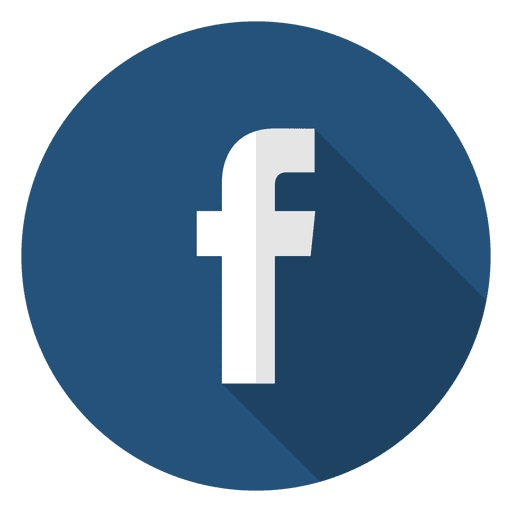
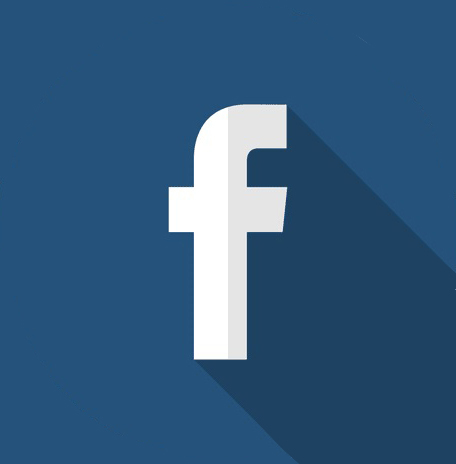
cambios en imagenes

diff --git a/trabajo integrador/public/stylesheets/estilosHeader.css b/trabajo integrador/public/stylesheets/estilosHeader.css
@@ -9,7 +9,7 @@ header{
    }
 header .header1{ 
     width: 100%;
-    background-image:url("/images/fotosVisteteDePoder/encabezadoGris.jpg");
+    background-image:url("/images/fotosVisteteDePoder/papelHeaderAlta.jpg");
 }
 
 
@@ -18,10 +18,10 @@ header .header1 .envios{
     box-sizing: border-box;
     position: absolute;
     width: 20%;
-    margin: 0;
-    margin-left: 5%; 
+    margin: 1%;
+    margin-left: 4%; 
     margin-right: 70%; 
-    color: #dfdfe6; 
+    color: #efeff8; 
 }
 header .header1 .redes{
     display:inline-block;
@@ -36,12 +36,13 @@ header .header1 .redes{
 header .header1 .redes .f{
     display:inline-block;
     box-sizing: border-box;
-    width: 7%;     
+    width: 7%; 
+    border-radius: 50%;    
     
 }
-header .header1 .redes .f {
-    width: 100%;
-    background-image: url("https://camaradellibro.cl/wp-content/uploads/2018/10/facebook-logo-png-5a35528eaa4f08.7998622015134439826976-300x173.jpg");
+header .header1 .redes .f img{
+    width: 100%; 
+    border-radius: 50%;
 }
 
 header .header1 .redes .i{
@@ -50,7 +51,7 @@ header .header1 .redes .i{
     width: 7%;
 }
 header .header1 .redes .i img{
-    width: 100%;
+        width: 100%;    
 }
 header .header1 .redes .w{
     display:inline-block;
@@ -74,17 +75,19 @@ header .header2 .logo{
 
 header .header2 .logo img{
     width: 100%;
+    border-radius: 50%;
 }
 header .header2 .menuHorizontal{
     display:inline-block;
-    width: 50%;
+    width: 60%;
     margin-left: 5%;
     vertical-align: top;
     padding-top: 5%; 
 }
 header .header2 .menuHorizontal div{
     display:inline-block;
-    box-sizing: border-box;   
+    box-sizing: border-box;
+    margin-left: 2%;  
 }
 header .header2 .valija{
     display:inline-block;

diff --git a/trabajo integrador/public/stylesheets/estilosLau.css b/trabajo integrador/public/stylesheets/estilosLau.css
@@ -2,7 +2,7 @@
 
 /*estos estilos son para ver el formato de cajas*/
 div.container{
-    background-image: url("/images/fotosVisteteDePoder/papelFondo.jpg");
+    background-image: url("/images/fotosVisteteDePoder/papelFondoAlta.jpg");
     margin:0;
     padding:0;
     background-repeat: no-repeat;
@@ -17,11 +17,9 @@ main {
 main .rectanguloNaranja {
     width:100%;
     padding: 0;
- 
 }
 
 .aside1{
- 
     padding:auto;
     margin: 0;
 }

diff --git a/trabajo integrador/public/stylesheets/Footerstyle.css b/trabajo integrador/public/stylesheets/Footerstyle.css
@@ -1,5 +1,5 @@
 footer{
-    background-image:url("/images/fotosVisteteDePoder/zocalo.jpg");
+    background-image:url("/images/fotosVisteteDePoder/zocaloAlta.jpg");
     display:inline-block;
     box-sizing: border-box;
     width: 100%;
